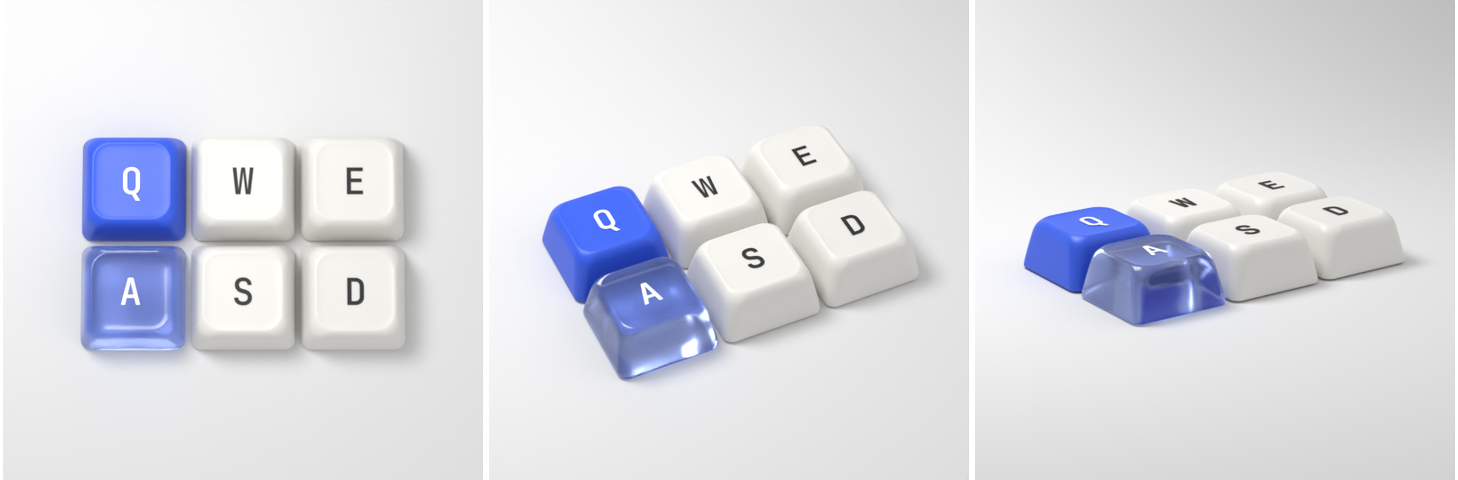
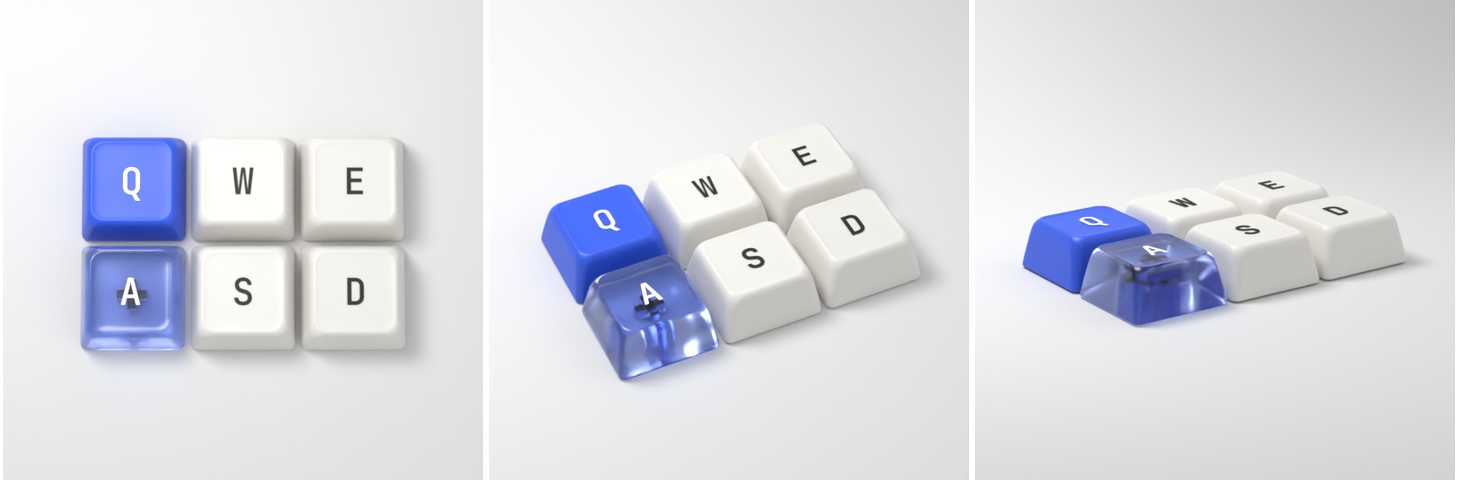
Teclas: vuelve el vástago de la transparente y cantos menos redondeados
Claude-Session: https://claude.ai/code/session_0121m7YK9CXNaJS4Mb2Yre8x

diff --git a/teclas/teclas.py b/teclas/teclas.py
@@ -25,7 +25,7 @@ from mathutils import Matrix, Vector
 FILAS = [["Q", "W", "E"], ["A", "S", "D"]]   # orden del teclado
 AZULES = {"Q", "A"}                           # teclas de plástico azul
 TRANSPARENTE = "A"                            # la tecla de azul medio transparente
-VASTAGO = False           # True = se ve la cruz del vástago adentro (de frente tapa la letra)
+VASTAGO = True            # se ve la cruz del vástago adentro de la tecla transparente
 
 COLOR_AZUL = "#2D5BE3"
 COLOR_BLANCO = "#E9E7E2"      # PBT blanco hueso, como la referencia
@@ -102,11 +102,11 @@ def tecla(nombre):
     h = ALTO
     # (z, medio lado, radio de esquina) de abajo hacia arriba
     perfil = [
-        (0.0, m, 0.10), (0.03, m, 0.10), (0.08, m * 0.995, 0.11),
-        (h * 0.70, m * 0.90, 0.14), (h * 0.86, m * 0.86, 0.15), (h * 0.95, m * 0.80, 0.16),
-        (h, m * 0.74, 0.18),                       # borde de arriba
-        (h * 0.985, m * 0.70, 0.15),               # escalón hacia el plato
-        (h * 0.975, m * 0.62, 0.13), (h * 0.97, m * 0.3, 0.13),
+        (0.0, m, 0.07), (0.03, m, 0.07), (0.08, m * 0.995, 0.08),
+        (h * 0.70, m * 0.90, 0.10), (h * 0.88, m * 0.86, 0.11), (h * 0.96, m * 0.81, 0.12),
+        (h, m * 0.76, 0.13),                       # borde de arriba
+        (h * 0.985, m * 0.72, 0.11),               # escalón hacia el plato
+        (h * 0.975, m * 0.64, 0.10), (h * 0.97, m * 0.3, 0.10),
     ]
     bm = bmesh.new()
     anillos = [[bm.verts.new(p) for p in anillo_redondeado(lado, r, z)] for z, lado, r in perfil]
@@ -325,7 +325,6 @@ def main():
         ob.visible_camera = False
         return ob
 
-    # softbox grande arriba a la izquierda: sombras suaves hacia abajo a la derecha
     # dos softbox: uno grande y alto, centrado (fondo parejo) y uno arriba a la izquierda
     # que da la dirección de las sombras, como en la referencia
     luz("Cenital", 300, (0, 0, 14), 24)
